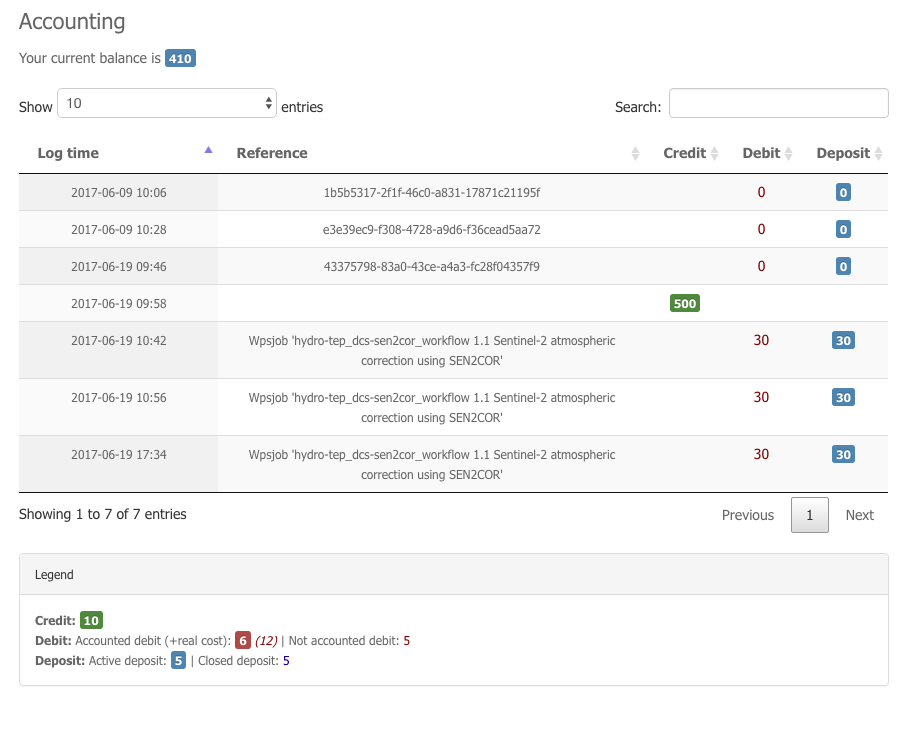
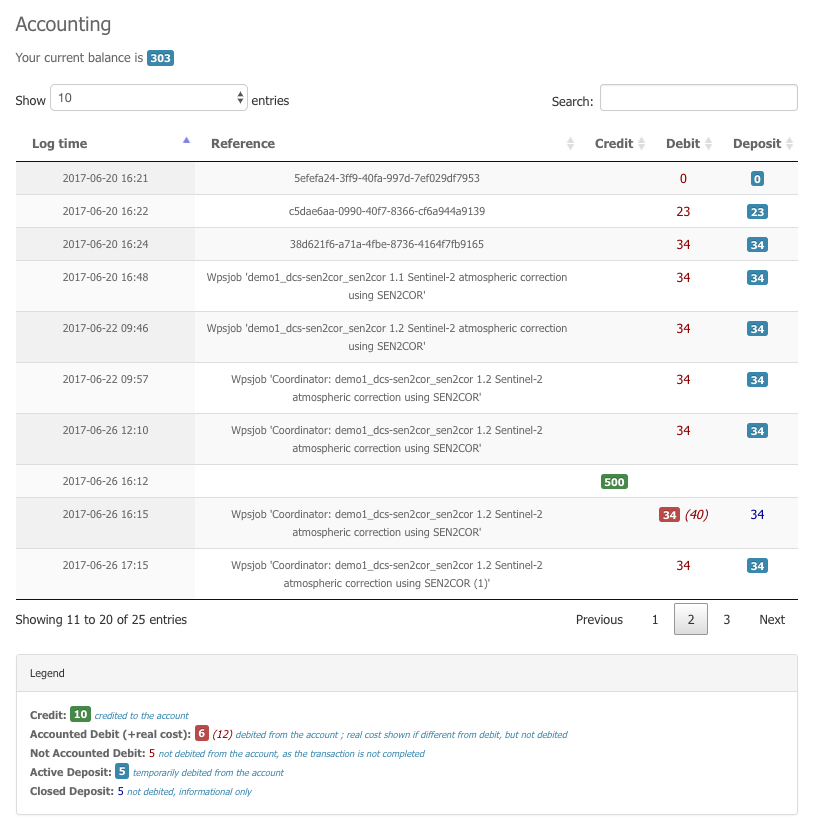
SP04 - accounting

diff --git a/source/community-guide/user.rst b/source/community-guide/user.rst
@@ -161,6 +161,15 @@ Deposit
 
 A deposit transaction is stored when the user execute a job process using as balance the quotation returned first by the processing service for the selected parameters (it implies that the wps provider implemented the **quotation mode**). Deposit transactions can be *active* or *closed*. An **active deposit** is accounted when calculating your account balance (covering the possible debit transactions associated to the same process). A **closed deposit** is not accounted when calculating your account balance (but does not cover anymore the possible debit transactions associated to the same process). A deposit is automatically set from *active* to *closed* when the job process is failed or when the job is succeeded with at least one transaction recorded from the wps provider.
 
+Terms
+~~~~~
+
+- **Credit:** amount credited to the account
+- **Accounted Debit (+real cost):** amount debited from the account corresponding to a transaction ; real cost shown if different from debit, but not debited (this may vary with on accounting governance)
+- **Not Accounted Debit:** amount corresponding to the records received from the provider for this transaction, but not debited from the account, as the transaction is not completed
+- **Active Deposit:** Deposit temporarily debited from the account (until the transaction is completed)
+- **Closed Deposit:** Deposit value, not debited anymore, informational only
+
 Transaction policy
 ~~~~~~~~~~~~~~~~~~
 
